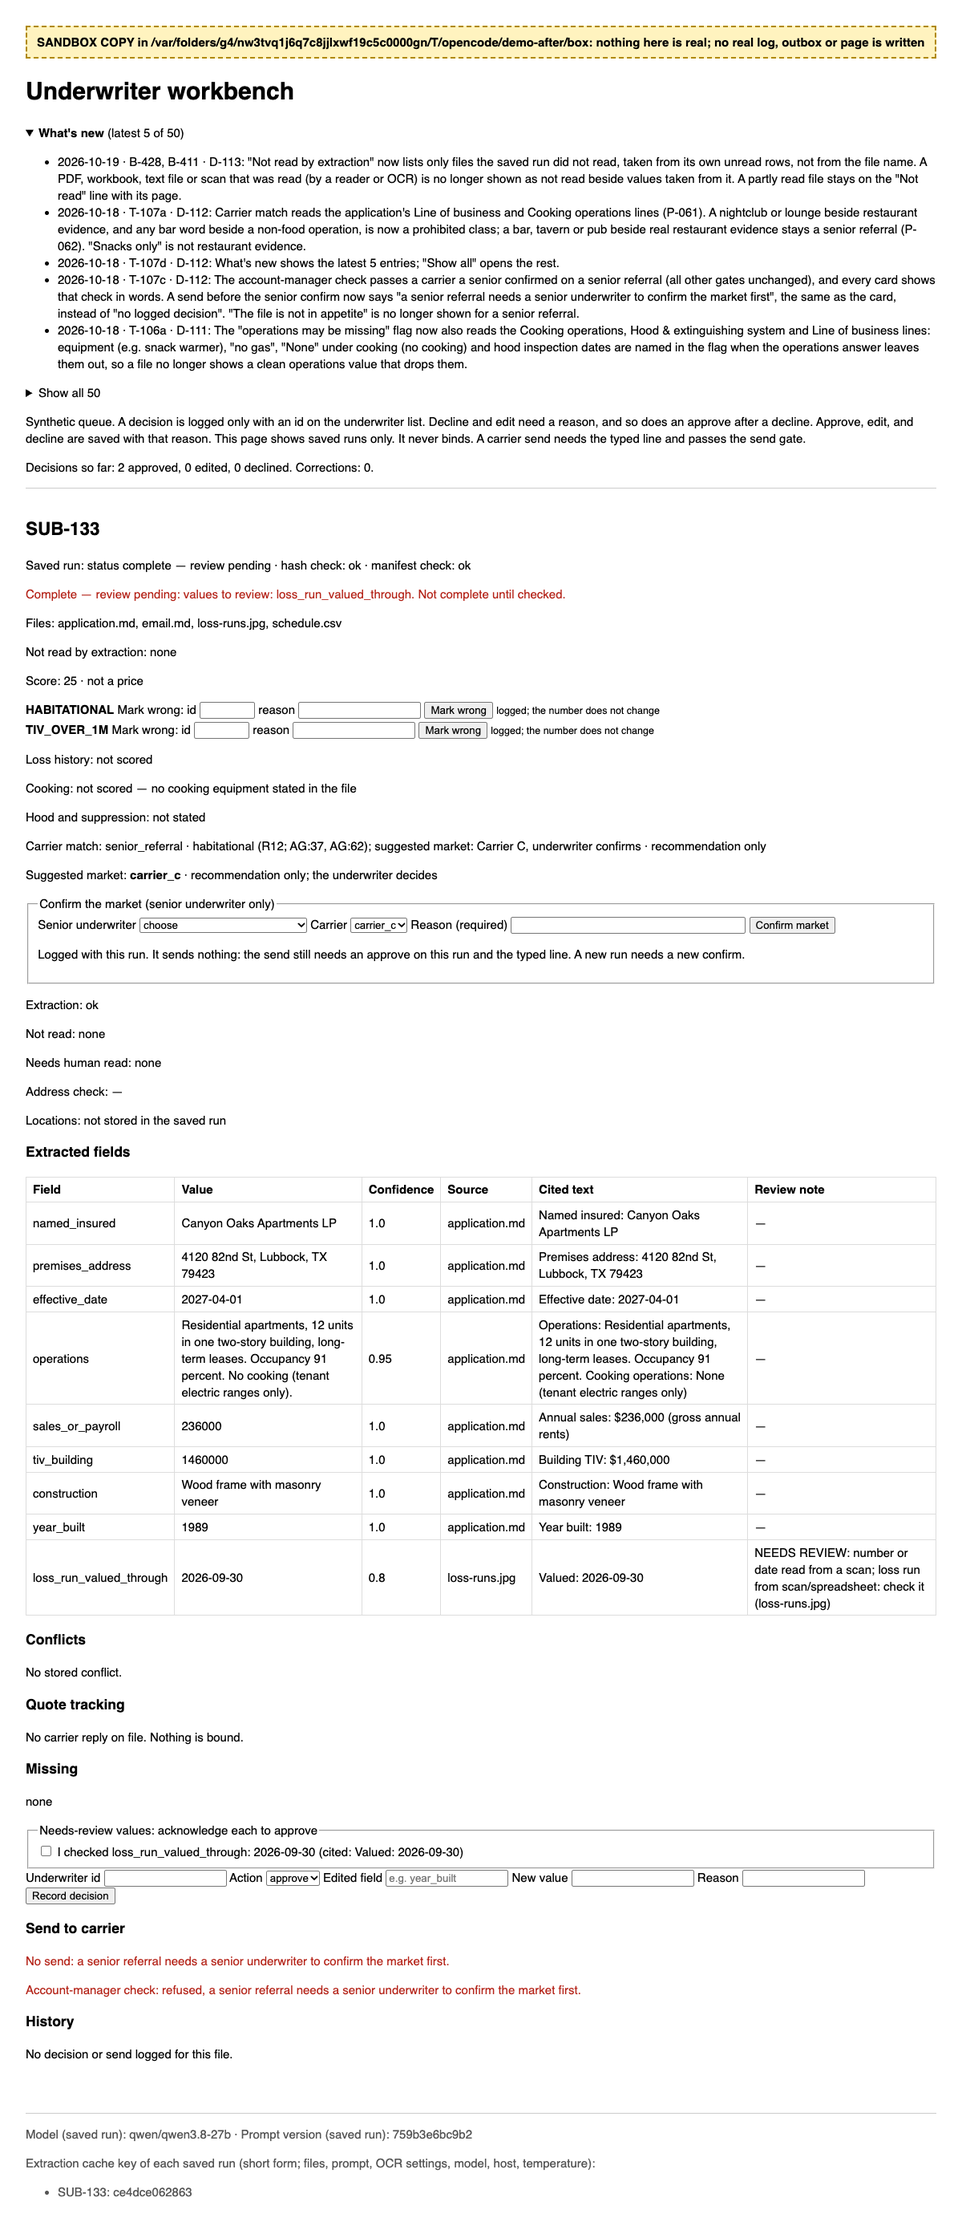
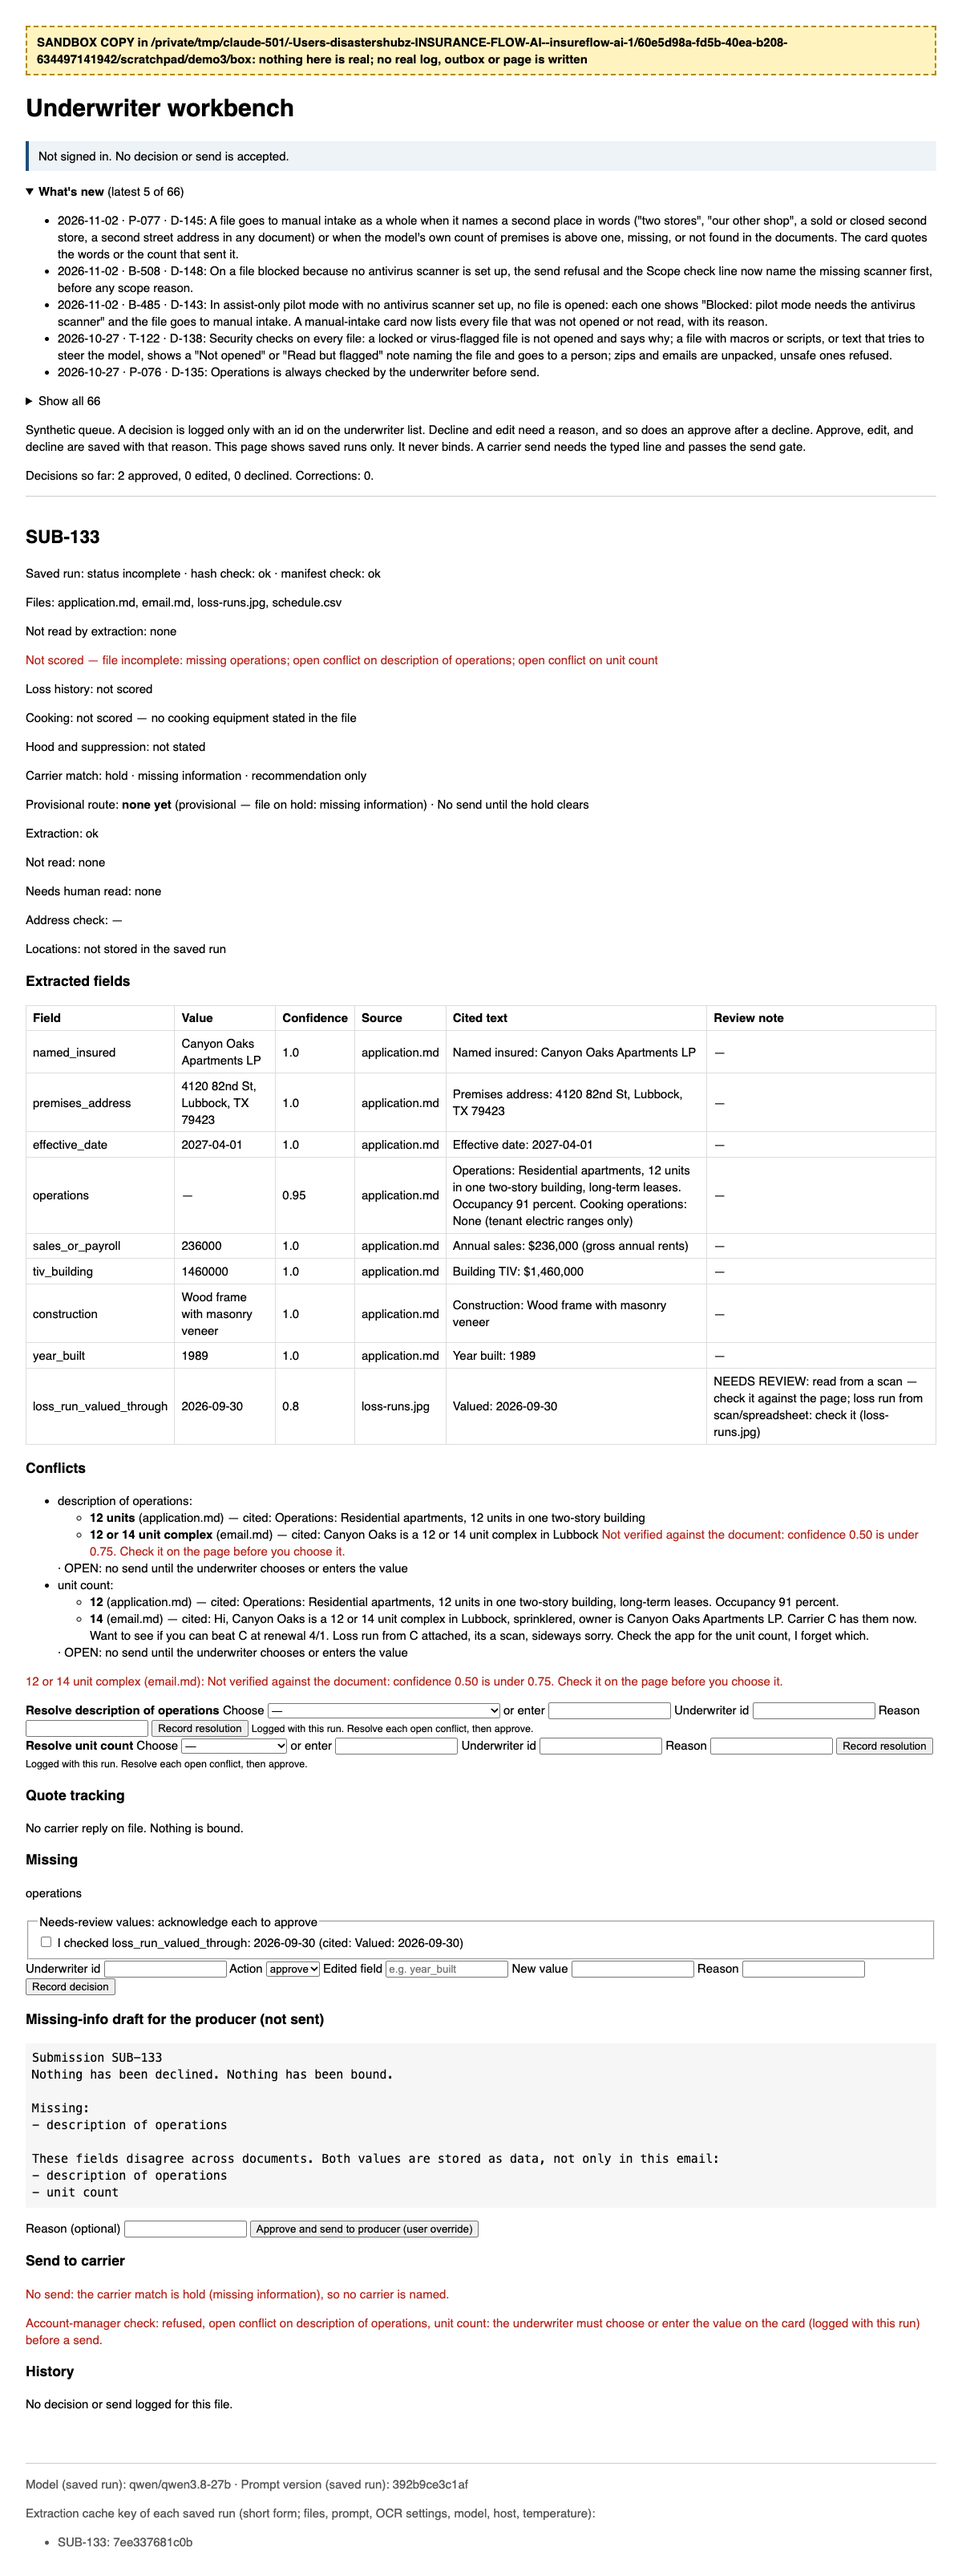
2026-11-03: T-105 demo SUB-133 resolve step (D-152); ends at the account-manager refusal (B-522); replay 0 live calls; screenshots retaken; NEXT-SESSION

diff --git a/deliverables/software-engineer/T-105-demo/shotflow.py b/deliverables/software-engineer/T-105-demo/shotflow.py
@@ -49,10 +49,13 @@ shot(sub,4,"draft-approve-refused",act(sub,"/approve-draft",{"reason":"x"}))
 sub="SUB-133"
 shot(sub,1,"card")
 shot(sub,2,"send-refused-before-approve",act(sub,"/send",{"user_line":"send to carrier SUB-133"}))
-shot(sub,3,"senior-confirm",act(sub,"/confirm-market",{"underwriter_id":"UW-001","carrier":"carrier_c","reason":"habitational, 12 units; Carrier C habitational appetite","_hash":True}))
-shot(sub,4,"send-refused-not-approved",act(sub,"/send",{"user_line":"send to carrier SUB-133"}))
-shot(sub,5,"approve-scan-value-ticked",act(sub,"/decision",APPR("UW-002")))
-shot(sub,6,"send-sent",am(sub))
-quote(sub,"C",11800,2500,"habitational 12 units, per file.")
-shot(sub,7,"quote")
+# D-152: the email says "12 or 14 unit complex", the signed application 12 units; the underwriter resolves both conflict rows to 12
+act(sub,"/decision",{"underwriter_id":"UW-002","action":"resolve","conflict_field":"operations","chosen_value":"12 units","reason":"signed application says 12 units; the email says 12 or 14","_hash":True})
+shot(sub,3,"resolve-unit-count-12",act(sub,"/decision",{"underwriter_id":"UW-002","action":"resolve","conflict_field":"unit_count","chosen_value":"12","reason":"signed application says 12 units; the email says 12 or 14","_hash":True}))
+shot(sub,4,"senior-confirm",act(sub,"/confirm-market",{"underwriter_id":"UW-001","carrier":"carrier_c","reason":"habitational, 12 units; Carrier C habitational appetite","_hash":True}))
+shot(sub,5,"send-refused-not-approved",act(sub,"/send",{"user_line":"send to carrier SUB-133"}))
+shot(sub,6,"approve-scan-value-ticked",act(sub,"/decision",APPR("UW-002")))
+# After the resolve the saved status is still "incomplete" (operations was held by the conflict), so the account-manager check
+# refuses: "the file is not complete". The demo ends here for SUB-133; no carrier reply is staged for a file that was not sent (D-152).
+shot(sub,7,"account-manager-refused-incomplete",am(sub))
 print("PAGE_EXISTS_IN_BOX", w.PAGE.exists(), str(w.PAGE))

diff --git a/deliverables/software-engineer/T-105-demo/steps.py b/deliverables/software-engineer/T-105-demo/steps.py
@@ -1,9 +1,10 @@
 APP=lambda uw,**k:("act","/decision",{"underwriter_id":uw,"action":"approve","reason":"demo review of the file","_hash":True,"_acks":True,**k})
 Q=lambda sub,c,prem,ded,terms:("quote",f"QUOTE\nCarrier: {c}\nSubmission: {sub}\nFICTIONAL planning figures. Not a bind.\n\nPremium: {prem}\nDeductible: {ded}\nTerms: {terms}\nSubjectivities: none beyond the file as sent.\n",f"carrier-{c.lower()}")
 run("SUB-133",[("route",),("act","/send",{"user_line":"send to carrier SUB-133"}),
+ ("act","/decision",{"underwriter_id":"UW-002","action":"resolve","conflict_field":"operations","chosen_value":"12 units","reason":"signed application says 12 units; the email says 12 or 14","_hash":True}),("act","/decision",{"underwriter_id":"UW-002","action":"resolve","conflict_field":"unit_count","chosen_value":"12","reason":"signed application says 12 units; the email says 12 or 14","_hash":True}),("route",),
  ("act","/confirm-market",{"underwriter_id":"UW-001","carrier":"carrier_c","reason":"habitational, 12 units; Carrier C habitational appetite","_hash":True}),
  ("act","/send",{"user_line":"send to carrier SUB-133"}),
- APP("UW-002"),("am",),("act","/send",{"user_line":"send to carrier SUB-133"}),Q("SUB-133","C",11800,2500,"habitational 12 units, per file.")])
+ APP("UW-002"),("am",),("act","/send",{"user_line":"send to carrier SUB-133"})])  # D-152: ends at the refusal, file still incomplete
 run("SUB-129",[("route",),("act","/decision",{"underwriter_id":"UW-002","action":"approve","reason":"x","_hash":True}),("act","/send",{"user_line":"send to carrier SUB-129"}),("act","/approve-draft",{"reason":"x"})])
 run("SUB-127",[("route",),("act","/confirm-market",{"underwriter_id":"UW-002","carrier":"carrier_a","reason":"non-senior try","_hash":True}),
  ("act","/confirm-market",{"underwriter_id":"UW-001","carrier":"carrier_a","reason":"financial advisory is an office occupancy; Carrier A office appetite","_hash":True}),

diff --git a/deliverables/pm/demo-guide.md b/deliverables/pm/demo-guide.md
@@ -22,11 +22,11 @@ Run the demo on a temporary copy, never on the real workbench or the real logs. 
 
 ```
 cd "/Users/disastershubz/INSURANCE FLOW AI/insureflow-ai-team"
-deliverables/software-engineer/T-105-demo/run-demo.sh /tmp/t105-demo-$(date +%s)
+SNAP_PY=/opt/homebrew/opt/python@3.14/bin/python3.14 deliverables/software-engineer/T-105-demo/run-demo.sh /tmp/t105-demo-$(date +%s)
 ```
 
 - The shell must have `LLM_BASE_URL` and `LLM_MODEL` set to the Groq host and `qwen/qwen3.8-27b`, so the saved replies match. No live model call is made; the scripts block them. The script prints each demo file's quote line and then "Pages: <temp>/shots". If playwright is not in .venv it prints "PNGs skipped"; open the pages in a browser instead, or use the saved screenshots.
-- The opening best-case file (SUB-184) needs its saved reply copied into the temp folder too. That step is part of the @software-engineer retake (T-107e); the script is not changed by this guide.
+- Saved replies were re-recorded on 2026-11-03 for prompt 392b9ce3c1af (D-150); the replay makes 0 live calls, SUB-184 included. From another worktree with no .venv, set `PY=<path to a .venv python>`; `SNAP_PY` is a python with playwright for the PNGs.
 - The scripts and saved replies are in `deliverables/software-engineer/T-105-demo/`. They are demo tooling only, not pipeline code.
 - The steps are a replay of recorded actions, not a live click-through. Show the rendered pages from the temp folder's `shots/`, or the committed screenshots below (safest for the meeting).
 - The demo files are dev data (SUB-127 to SUB-184). None comes from the hold-out.
@@ -45,7 +45,7 @@ Screenshots: the opening best-case steps are in `deliverables/software-engineer/
 |---|---|---|---|
 | 0:00–1:00 | **Opening: best case** (SUB-184, backup SUB-179) | A clean office file goes from inbox to a sent package with no senior step | see O1–O4 |
 | 1:00–1:30 | Opening | The tool reads a submission and prepares it for a person. It never decides, never binds, never sends by itself. | `T-105-SUB-127-00-queue-all-three.png` |
-| 1:30–4:30 | **Demo A: messy in-scope file to a carrier quote** (SUB-133) | Inbox to quote, with one value a person must check | see A1–A6 |
+| 1:30–4:30 | **Demo A: messy in-scope file the tool will not send** (SUB-133) | The documents disagree; the underwriter resolves it, and the send gate still holds | see A1–A7 |
 | 4:30–6:00 | **Demo B: out-of-scope file to manual intake** (SUB-129) | The tool stops and says why | see B1–B3 |
 | 6:00–8:00 | **Demo C: senior referral confirmed by a senior** (SUB-127) | A senior confirms the carrier, then the file moves on | see C1–C5 |
 | 8:00–9:30 | Numbers: T-108 scores, cost, time saved | Honest scores; estimates clearly marked | none (table below) |
@@ -60,18 +60,19 @@ What it is: Keller Insurance Services, a one-location office in Pflugerville, TX
 3. **O3 (0:15)** Approve, then send. The account-manager check passes, and the file is written to the to-carrier folder, "not bound". [`T-107e-SUB-184-03-account-manager-send.png`]
 4. **O4 (0:15)** Say: this is the only clean route to a carrier on the dev files. Most files still go to a senior first (Demo A and C).
 
-### Demo A: SUB-133, messy in-scope file to a quote (3 min)
+### Demo A: SUB-133, messy in-scope file the tool will not send (3 min)
 
-What it is: a 12-unit apartment building. The file has a typed application, a schedule, an email, and a rotated photo of a Carrier C loss run (a loss run is the insurer's list of past claims).
+What it is: a 12-unit apartment building. The file has a typed application, a schedule, an email, and a rotated photo of a Carrier C loss run (a loss run is the insurer's list of past claims). Updated 2026-11-03 (D-152): the email says "a 12 or 14 unit complex" while the signed application says 12 units, and the tool now holds that as an open conflict.
 
-Important, say it out loud: most files go to a senior first. This file reaches a quote through senior referral. The suggested carrier is Carrier C, and a senior confirms it.
+Important, say it out loud: the tool does not pick between two documents. A person chooses, and even then the file only moves when every gate is met.
 
-1. **A1 (0:30)** Open the card. Status is "complete, review pending". The loss-run date was read from a scan, so a person must check it. Route: senior referral, suggested Carrier C. [`T-105-SUB-133-01-card.png`]
-2. **A2 (0:20)** Try to send before anyone approves. The tool refuses: "a senior referral needs a senior underwriter to confirm the market first". This is the safety stop working. [`T-105-SUB-133-02-send-refused-before-approve.png`]
-3. **A3 (0:40)** The senior, Dana Reyes, confirms Carrier C and gives a reason. The record shows who, when, why, and which file version. [`T-105-SUB-133-03-senior-confirm.png`]
-4. **A4 (0:40)** The underwriter approves and ticks the scan value as checked. The history shows it. [`T-105-SUB-133-05-approve-scan-value-ticked.png`]
-5. **A5 (0:30)** Send. The account-manager check passes because the senior's confirm is logged. No typed override is used. The package is written to the to-carrier folder and is "not bound". [`T-105-SUB-133-06-send-sent.png`] (retaken 2026-10-19)
-6. **A6 (0:30)** Quote back: Carrier C, quoted, premium 11,800, deductible 2,500, not bound. The reply is simulated and the figures are fictional. [`T-105-SUB-133-07-quote.png`]
+1. **A1 (0:30)** Open the card. Status is "incomplete". The two documents disagree on the unit count (12 vs "12 or 14"); the loss-run date was read from a scan, so a person must check it. [`T-105-SUB-133-01-card.png`]
+2. **A2 (0:20)** Try to send. Refused: "no logged decision by a listed underwriter for this file". [`T-105-SUB-133-02-send-refused-before-approve.png`]
+3. **A3 (0:40)** The underwriter resolves the unit count to 12 from the signed application and writes why. The card shows both conflicts "RESOLVED by UW-002: 12". [`T-105-SUB-133-03-resolve-unit-count-12.png`]
+4. **A4 (0:30)** The senior, Dana Reyes, confirms Carrier C with a reason. [`T-105-SUB-133-04-senior-confirm.png`]
+5. **A5 (0:30)** The underwriter approves and ticks the scan value as checked. [`T-105-SUB-133-06-approve-scan-value-ticked.png`]
+6. **A6 (0:30)** Send. The account-manager check refuses: "the file is not complete". The operations description was held by the conflict, so the file still lists it as missing; nothing goes to the carrier. [`T-105-SUB-133-07-account-manager-refused-incomplete.png`]
+7. **A7 (0:20)** Say it plainly: on this file the tool stops short of a carrier. For a file that goes all the way to a quote, use the opening file SUB-184 or Demo C (SUB-127).
 
 ### Demo B: SUB-129, out-of-scope file to manual intake (1.5 min)
 

diff --git a/team/BACKLOG.md b/team/BACKLOG.md
@@ -534,8 +534,9 @@ Also open from T-097, already in the register's Section D so not repeated as row
 | B-514 | check-T-126-T-127 L1, L2 | @software-engineer | Low | L1: the B-508 screenshot shows scope-v4 (taken before the build). L2: "No other locations." goes to manual intake (fail closed, accepted). | 2026-11-02 |
 | B-515 | check T-121 M1 | @producer | Medium | Collision check compares full names only; a near-duplicate name (SUB-524 vs SUB-201 "Velvet Room") passed. Fixed for T-121 before the freeze; check name stems next time. | 2026-11-03 |
 | B-516 | check T-121 L1, L4 | @ai-engineer-assistant | Low | L1: report the SUB-520/522 cooking conflicts apart from the conflict rate (D-128). L4: business words in the 510/512/513 insured names fail closed if cited (safe). | 2026-11-03 |
-| B-517 | T-105 demo (D-150) | @user | D-152: resolve step (in progress) | After the re-record SUB-133 raises "12 units" vs the email's "12 or 14 unit complex" as an open conflict, so the demo's send is refused (correct, P-074). The demo script needs a resolve step or a different messy file. | 2026-11-03 |
+| B-517 | T-105 demo (D-150) | @user | D-152 DONE 2026-11-03: resolve step added; SUB-133 ends at the account-manager refusal (see B-522) | After the re-record SUB-133 raises "12 units" vs the email's "12 or 14 unit complex" as an open conflict, so the demo's send is refused (correct, P-074). The demo script needs a resolve step or a different messy file. | 2026-11-03 |
 | B-518 | T-027 memo T-121 H1 | @ai-engineer-assistant | High | P-077 Part B fails closed on clean single-location files: highway addresses fail the shape test; model quotes a reassurance sentence (510, 513, 527, 529). Needs a P-### approved by @user (loosens Part B). | 2026-11-03 |
 | B-519 | T-027 memo T-121 H2 | @software-engineer | High | Part A rule A3 missed SUB-533: ROLE_LINE skips the whole line on "Carrier"; label_above hides the address. Stricter-only P-###. | 2026-11-03 |
 | B-520 | memo T-121 M1-M4 | @senior-test-engineer | Medium | M1 counter v2 counts a manual-intake file as an operations silent error (pre-register a rule; T-121 not re-scored). M2 Part B does not check the count quote against the extracted premises. M3 SUB-526 ops held as reworded (safe). M4 0 silent in 16 bounds the rate below ~19%; C6 monitoring still needed. | 2026-11-03 |
 | B-521 | memo T-121 L1-L4 | @ai-engineer-assistant | Low | L1 Groq org id unmasked in the score JSON. L2 C2/C4 read rebuilt reports. L3 no v11 cooking-conflict mark. L4 report status automation apart from safety. | 2026-11-03 |
+| B-522 | T-105 demo, D-152 | @user | Medium | After an underwriter resolves every conflict, the saved status stays "incomplete" (ready_to_route reads the stored status; the conflicted operations value stays empty), so the send is refused and the card still says "Missing: operations" and drafts both disagreements to the producer. Making it routable loosens a gate: needs a P-### approved by @user. Card wording is contradictory meanwhile (D-065). | 2026-11-03 |

diff --git a/team/NEXT-SESSION.md b/team/NEXT-SESSION.md
@@ -1,5 +1,11 @@
 # Next session
 
+## 2026-11-03 (second part): T-121 run and memo — read this first
+- T-121 run once (`20261103T151602-99173`), scored once with v11 and count_ops_gate_v2 (D-154). Met: 0 leaks, recall 12/12 (words-only 534–537 4/4), 0 false completes, 0 unsafe routes, conflicts 6/6, C3 0, silent error rate 0. Failed, all from SUB-510/513/527/529 (P-077 Part B "number of locations not clear"): false manual intake 4/20, near-misses kept 1/3, route 16/20, fields 16/20, C2 v2 4 counted, C4 present 16. Results `deliverables/ai-engineer/evals/SUB-510-541-results.md`.
+- @model-risk T-027 memo: **KEEP** (`deliverables/model-risk/T-027-memo-T-121.md`). H1 B-518 (Part B; loosening, needs a P-### from @user), H2 B-519 (A3 misses SUB-533; stricter-only P-###). Lift needs both fixed, a check with no High, and a fresh 20+12 hold-out (>= 2 SUB-533-shaped, >= 2 highway addresses, a C2/C4 rule for manual-intake files set before gold).
+- Demo (D-152): SUB-133 resolve step added; the file still ends at "the file is not complete" (B-522). Replay 0 live calls; screenshots retaken. Guide Demo A rewritten.
+- Next free: P-079, T-128, D-155, B-523.
+
 ## Freeze 2026-11-03 for the T-121 hold-out (read this first)
 
 Recorded by the orchestrator in the Claude Code session, 2026-11-03, before any T-121 file or gold exists. Any byte change below reopens the freeze.
